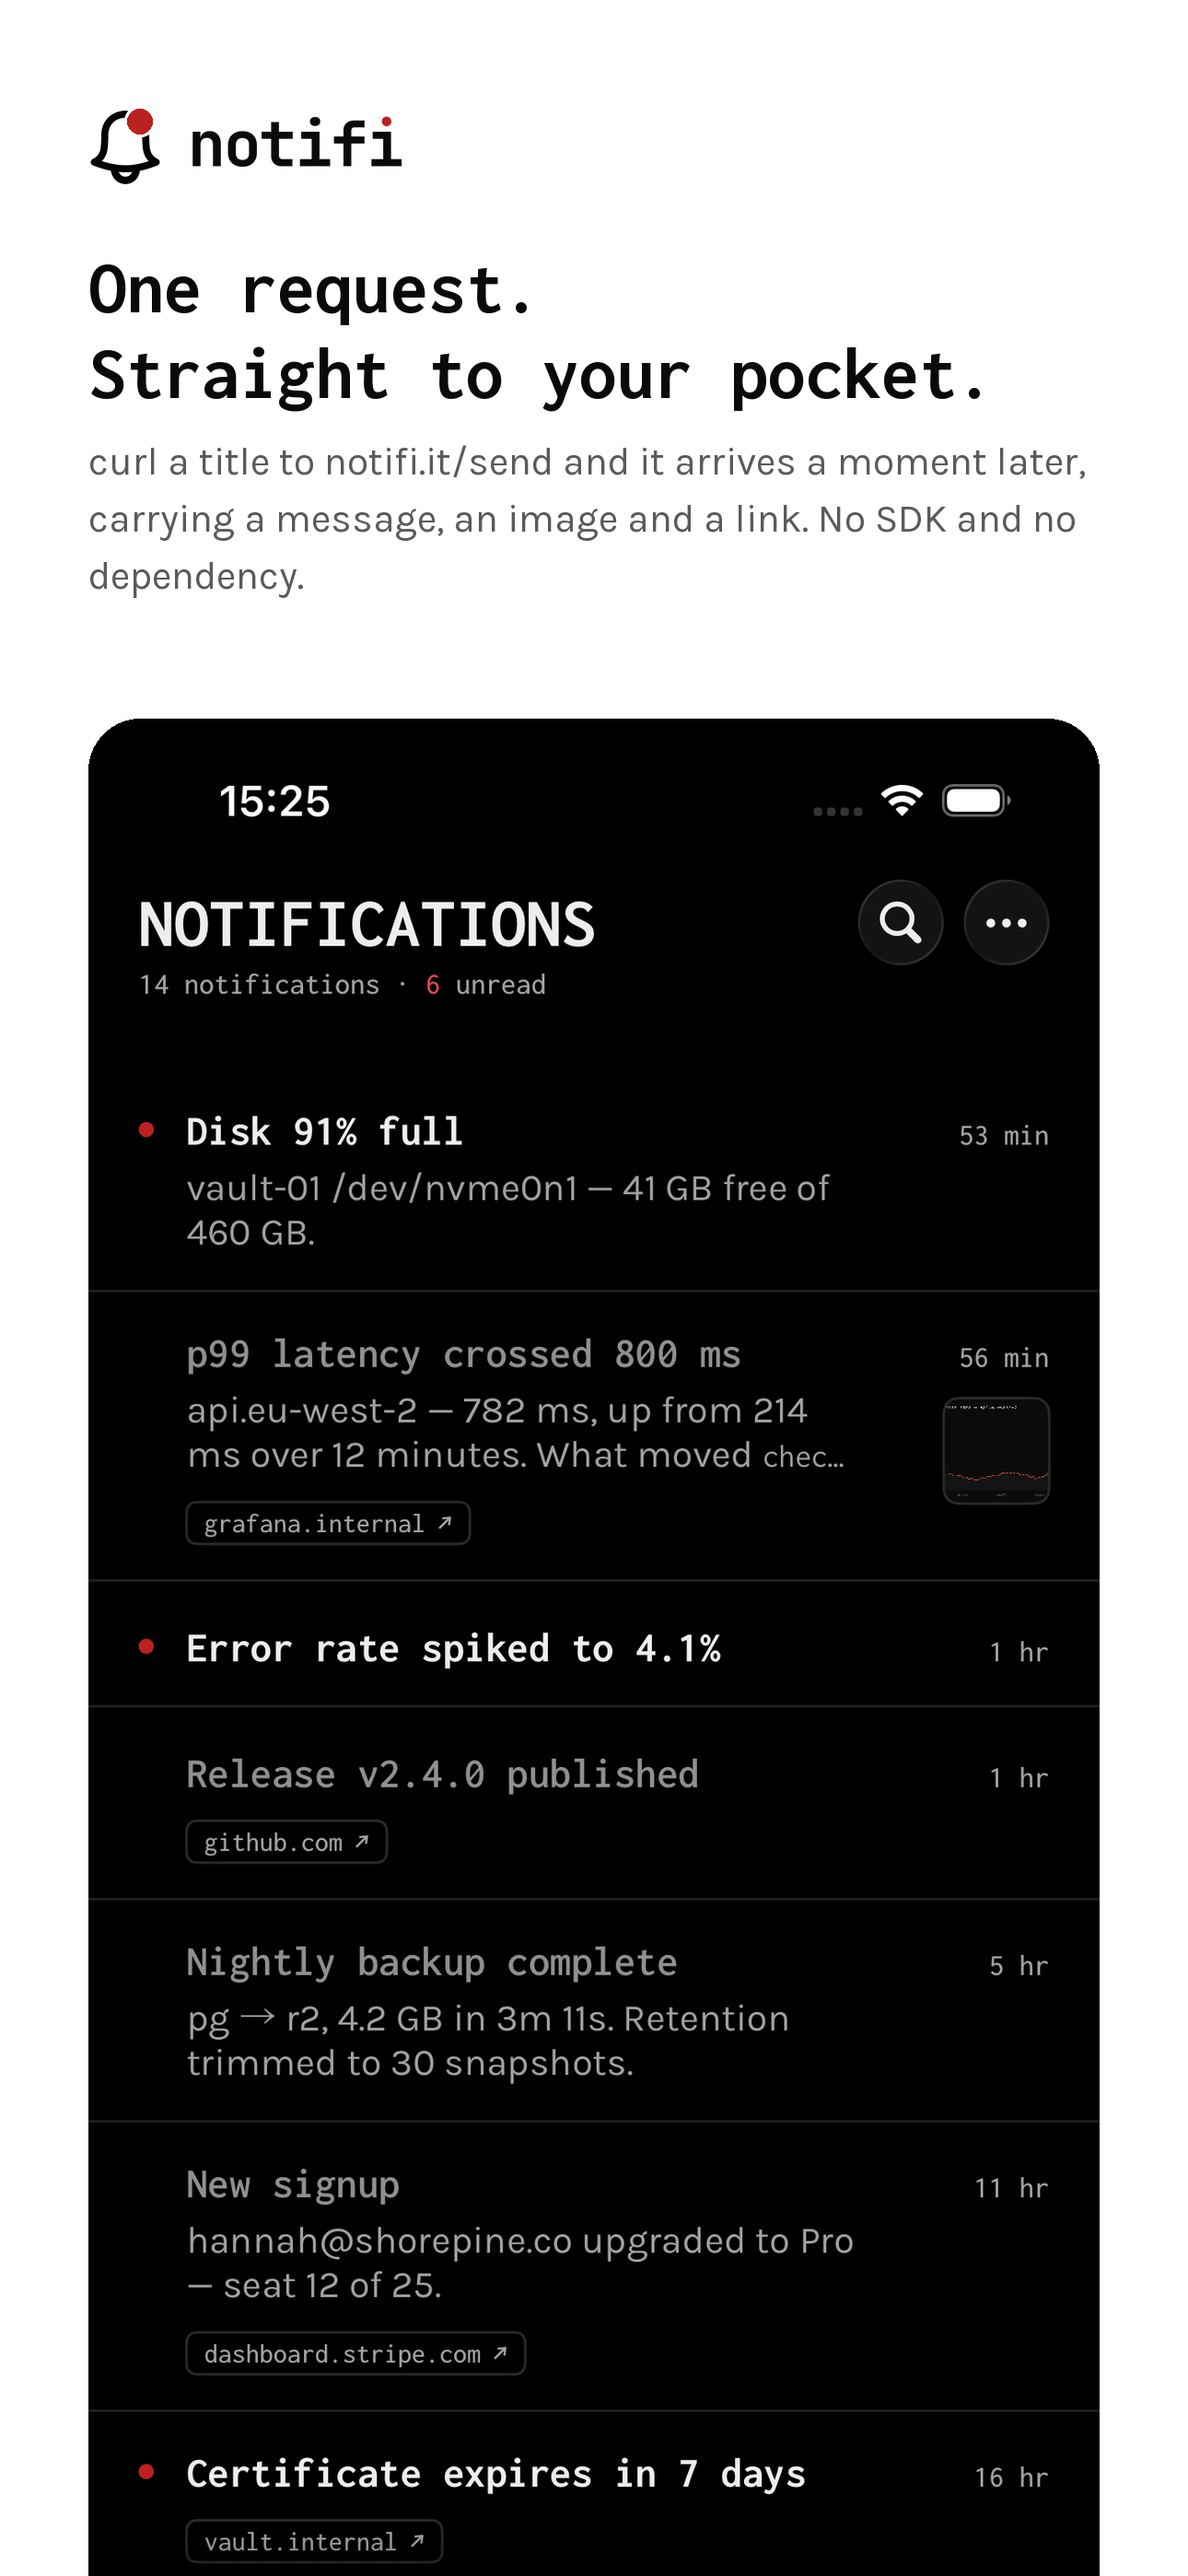
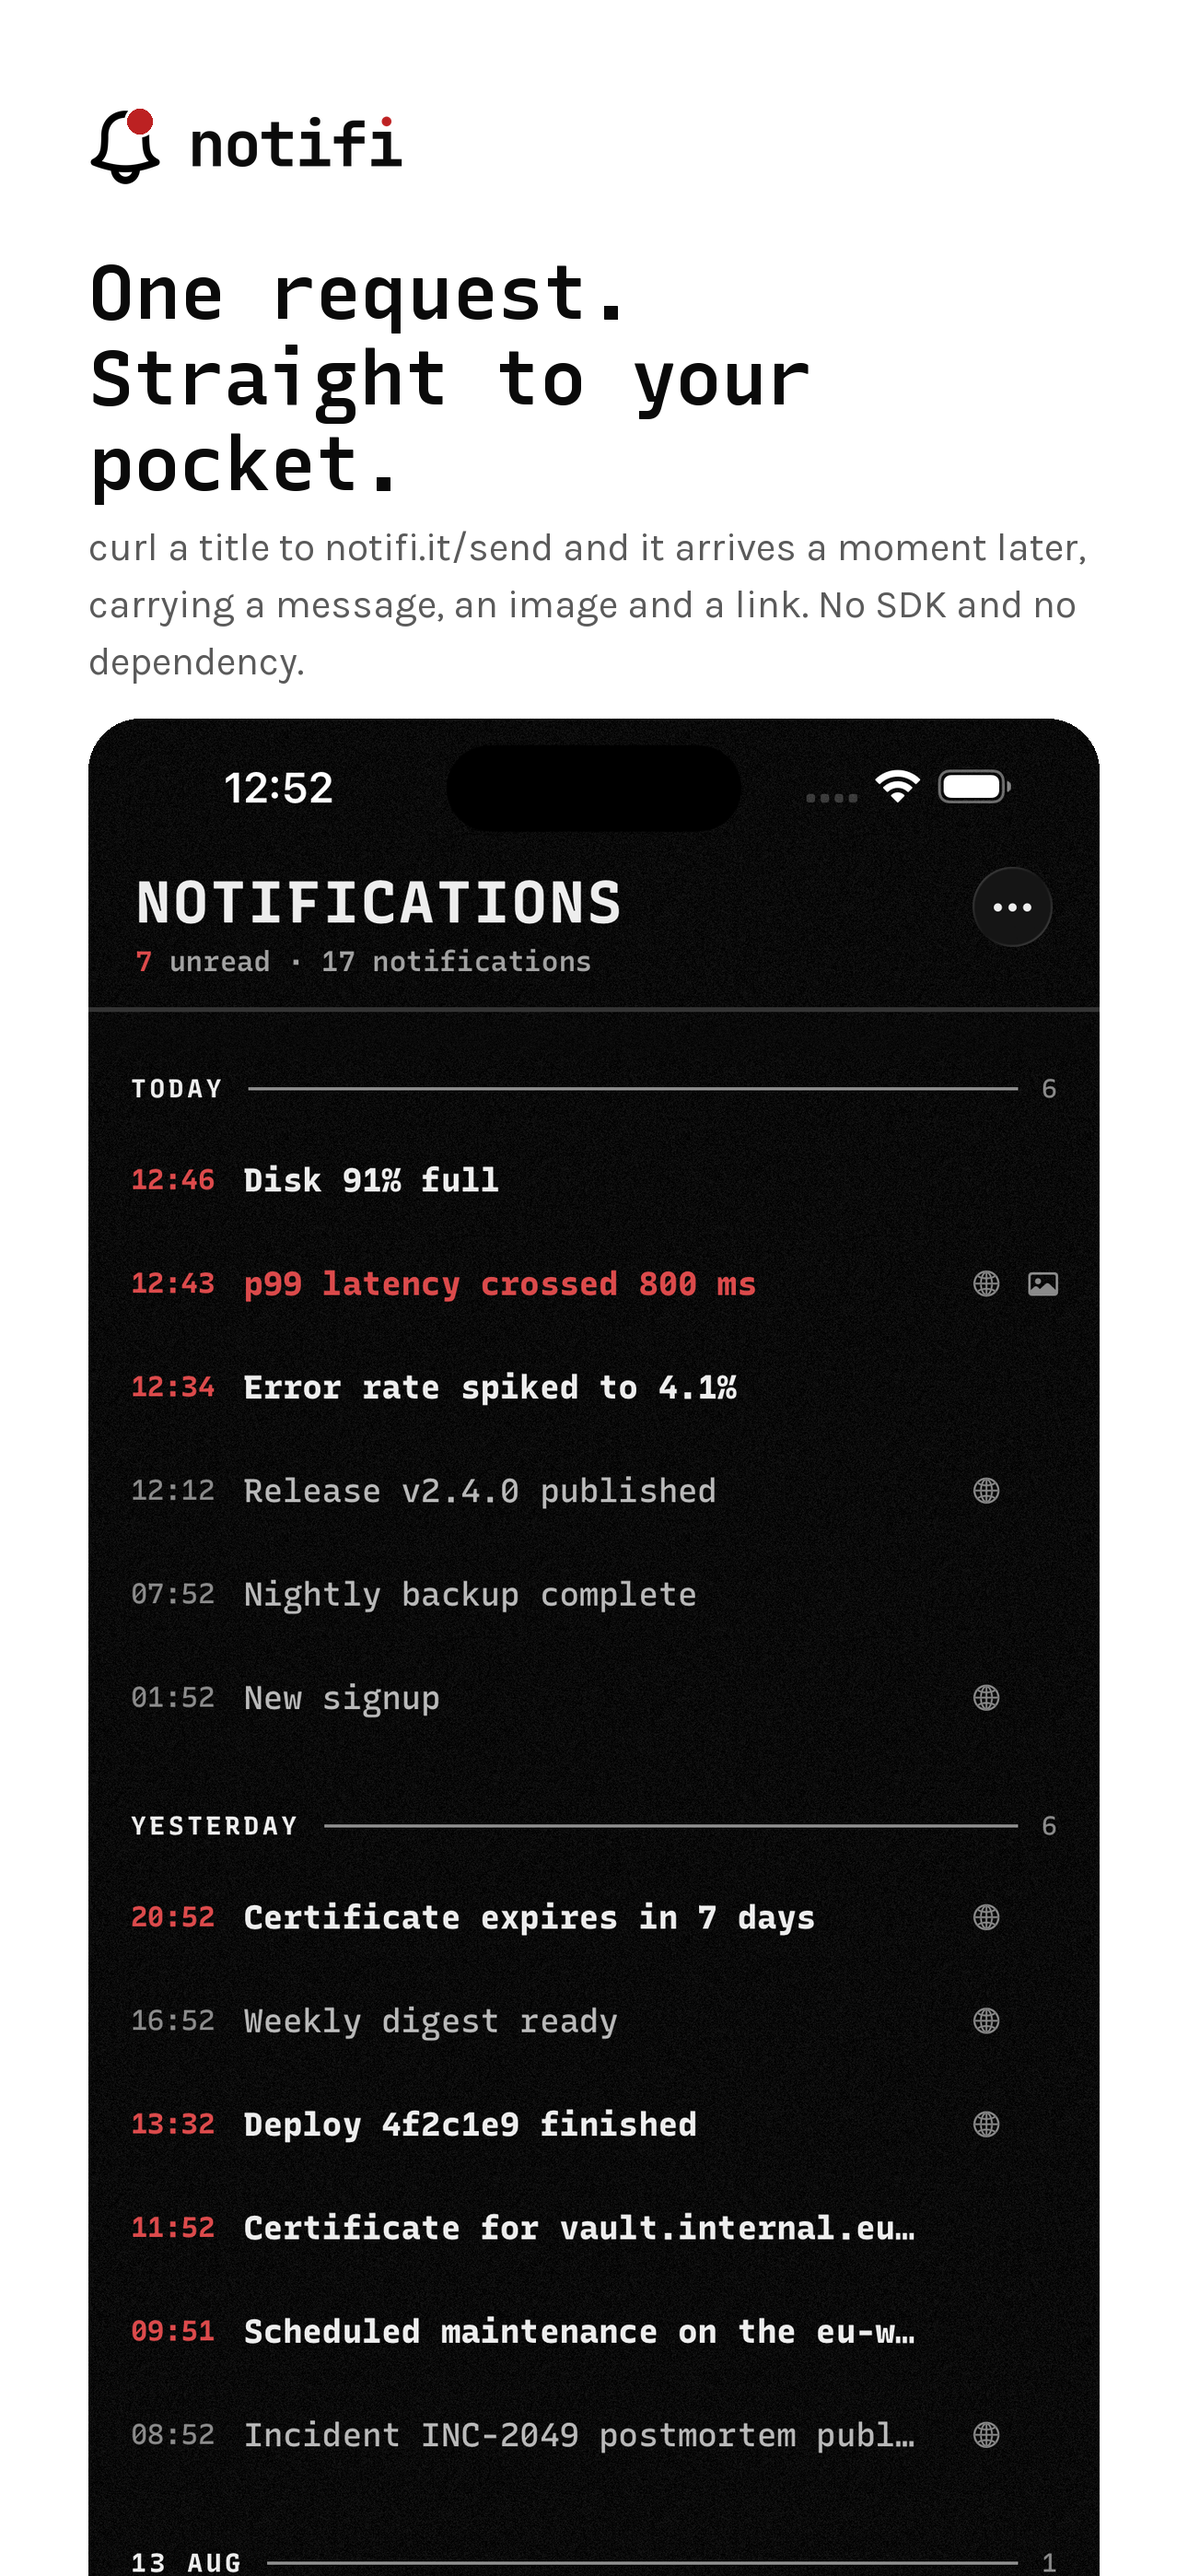
Lighter titles, fresh App Store screenshots (#137)
Screen titles drop from bold to semibold. On the keys list the default
row's name goes bold while ordinary keys drop to medium, so the fixture
stands out by weight as well as ground. appstore-frames.py no longer
asks the static RecursiveMono for a variable instance. New screenshots
captured from today's build: Today/Yesterday bands in the inbox, the
markdown detail, and the keys screen with the default fixture row.

diff --git a/apps/app/Shared/Views/KeysView.swift b/apps/app/Shared/Views/KeysView.swift
@@ -200,7 +200,7 @@ private struct KeyRow: View {
                 VStack(alignment: .leading, spacing: 5) {
                     HStack(spacing: 8) {
                         Text(key.name)
-                            .font(.inco(.headline, weight: .semibold))
+                            .font(.inco(.headline, weight: isFixture ? .bold : .medium))
                             .textCase(isFixture ? .uppercase : nil)
                             .tracking(isFixture ? 0.5 : 0)
                             .foregroundStyle(key.isRevoked ? Theme.read : Theme.fg)

diff --git a/apps/app/Shared/Support/Theme.swift b/apps/app/Shared/Support/Theme.swift
@@ -129,7 +129,7 @@ enum Theme {
     static var metaUnread: Font { .inco(.caption, weight: .semibold) }
     static var metaSmall: Font { .inco(.caption2, weight: .regular) }
     static var label: Font { .inco(.caption2, weight: .medium) }
-    static var screenTitle: Font { .inco(.title, weight: .bold) }
+    static var screenTitle: Font { .inco(.title, weight: .semibold) }
     /// Tracking is a view modifier rather than part of a Font, so every screen
     /// title applies this alongside `screenTitle`.
     static let screenTitleTracking: CGFloat = 1

diff --git a/apps/app/Scripts/appstore-frames.py b/apps/app/Scripts/appstore-frames.py
@@ -141,10 +141,15 @@ def frame(shot_name, title, desc, out_name):
     canvas.paste(mark, (GUTTER + bell.width + 28, top + (BELL_BOX - mh) // 2), mark)
 
     # ── title
-    # Both files are variable fonts. Left at their default instance PIL renders
-    # a broken outline, so the instance has to be named explicitly.
+    # A variable font left at its default instance renders a broken outline in
+    # PIL, so an instance is named when the file carries one. RecursiveMono
+    # ships as a static SemiBold and raises here — the file already is the
+    # weight the frame wants.
     tf = ImageFont.truetype(MONO, TITLE_SIZE)
-    tf.set_variation_by_name("Bold")
+    try:
+        tf.set_variation_by_name("Bold")
+    except OSError:
+        pass
     y = TOP
     for para in title.split("\n"):
         for line in wrap(d, para, tf, W - GUTTER * 2):
